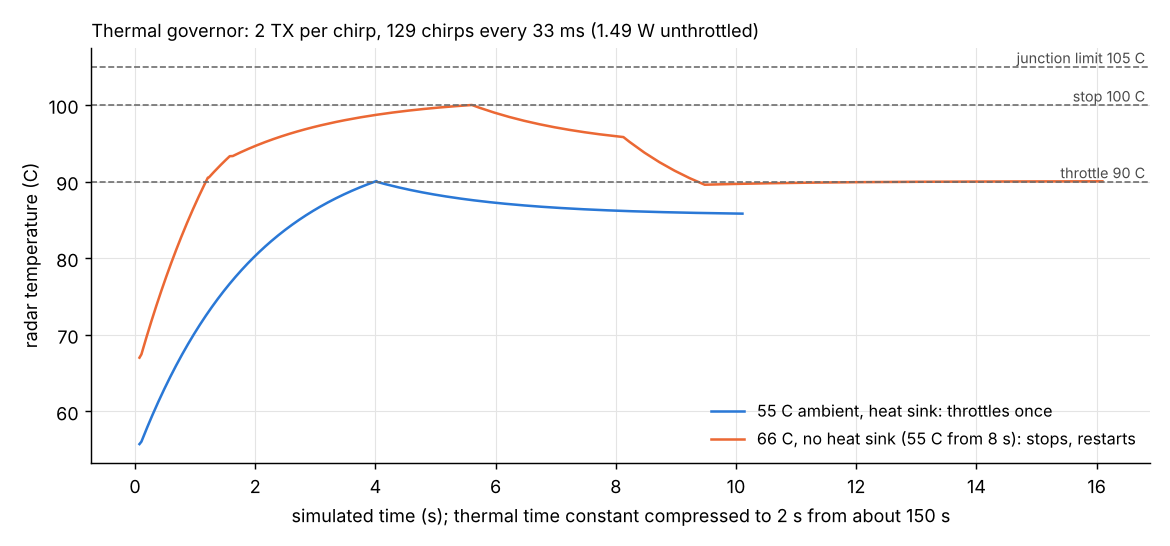
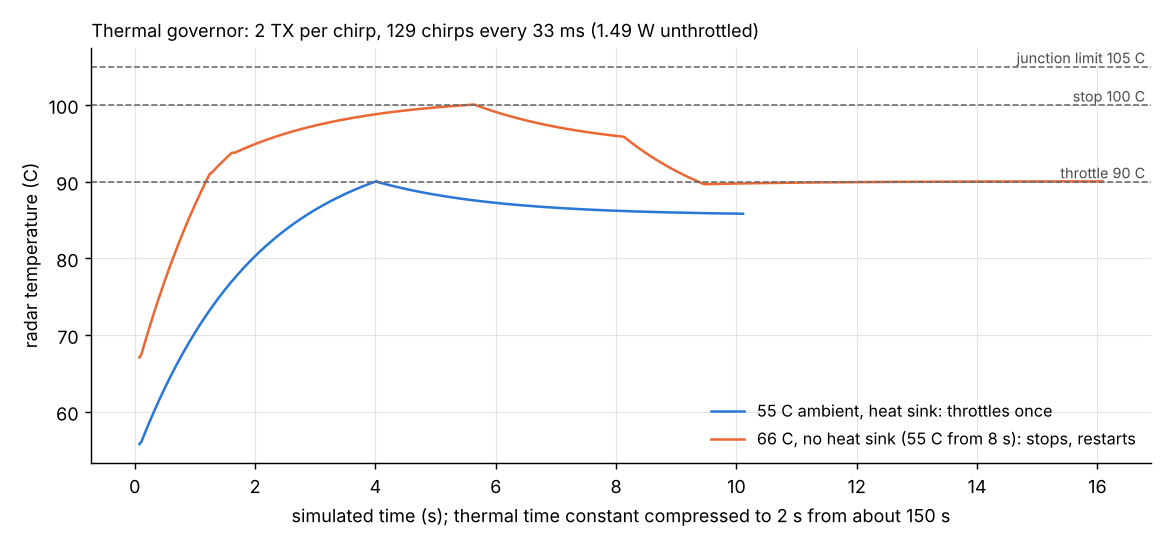
cosim: configurable temperature read interval, host switch for three TX
thermal.read_ms (100 ms to 5 s, default 1 s) sets how often the governor
reads the radar temperature and PMIC status, in place of every frame.
radar.tx3_enable (default 0) lets the host allow three TX in one chirp
in the normal build.

Claude-Session: https://claude.ai/code/session_01PL5B9BkKxS1pc3ZYLJLHsL

diff --git a/cosim/run_cosim.py b/cosim/run_cosim.py
@@ -163,8 +163,8 @@ def stress_3tx(c):
     for line in cfg:
         n.cli(line)
     out = n.cli("sensorStart", 0.3)
-    c.expect("Error -53" in out, "normal build refuses three TX at once (SAFE_MAX_TX_PER_CHIRP 2)")
-    b = _stream(c, "c_3tx_simultaneous_trim_1005", 1005, cfg, debug=True)
+    c.expect("Error -53" in out, "three TX at once refused by default (radar.tx3_enable 0)")
+    b = _stream(c, "c_3tx_simultaneous_trim_1005", 1005, ["cfg radar.tx3_enable 1"] + cfg)
     clean(c, b)
 
 
@@ -330,11 +330,13 @@ def usb_dropout(c):
 # ------------------------------------------------------------------------------ thermal and host limits
 # The board's thermal time constant is about 150 s (sim/bss.py). To keep runs short the thermal
 # scenarios compress it to 2 s and the firmware's hold time from its 20 s default to 300 ms, the
-# same ratio, so the governor sees the same dynamics 75 times faster.
+# same ratio, so the governor sees the same dynamics 75 times faster. The temperature read interval
+# goes to its minimum of 100 ms (7.5 s at real speed, coarser than the 1 s default).
 TAU_FAST = 2.0
 RTH_BARE = 37.4          # K/W, no heat sink (thermal_summary.txt: 46.7 K at 1.25 W)
 HEAVY = ["chirpReset", "chirpCfg 0 0 0 0 0 0 0 3", "chirpCfg 1 1 0 0 0 0 0 6", "chirpCfg 2 2 0 0 0 0 0 5",
-         "frameCfg 0 2 43 0 33", "cfg thermal.hold_ms 300"]   # 2 TX per chirp, 129 chirps every 33 ms: 1.49 W
+         "frameCfg 0 2 43 0 33", "cfg thermal.hold_ms 300", "cfg thermal.read_ms 100"]
+# 2 TX per chirp, 129 chirps every 33 ms: 1.49 W
 
 
 THERMAL_RUNS = {}
@@ -447,6 +449,8 @@ def host_limits(c):
                              ("cfg thermal.throttle_c 95", -51, "throttle temperature above 90 C"),
                              ("cfg thermal.hold_ms 50", -51, "hold time under 100 ms"),
                              ("cfg pmic.trim_mv 25", -51, "1V0 trim over 5 mV"),
+                             ("cfg thermal.read_ms 10000", -51, "temperature read interval over 5 s"),
+                             ("cfg radar.tx3_enable 2", -51, "tx3_enable other than 0 or 1"),
                              ("cfg thermal.throttle_c 86", -52, "throttle closer than 3 K to release (85 C)"),
                              ("cfg thermal.governor 0", -50, "unknown key (no switch to turn the governor off)")):
         c.expect(f"Error {code}" in b.cli(line), f"refused: {what}")
@@ -459,7 +463,7 @@ def host_limits(c):
     for line in ("cfg thermal.release_c 65", "cfg thermal.throttle_c 70", "cfg thermal.resume_c 71",
                  "cfg thermal.stop_c 74", "cfg thermal.hold_ms 300"):
         c.expect("Done" in b.cli(line), f"accepted: '{line}'")
-    for line in HEAVY[:-1]:
+    for line in HEAVY[:-2] + HEAVY[-1:]:
         b.cli(line)
     b.cli("sensorStart", 0.3)
     b.run(6.0)
@@ -519,7 +523,7 @@ SCENARIOS = [
     ("carrier_boot", "Carrier power (J400/J401) only, CLI over the carrier UART", carrier_boot),
     ("stream_default", "Default TDM-MIMO profile, 10 frames, no 1V0 trim", stream_default),
     ("stream_trim", "Same with the 1V0 trim to 1005 mV while running", stream_trim),
-    ("stress_3tx", "Three TX at once: refused by the normal build, run on the debug build for the replay", stress_3tx),
+    ("stress_3tx", "Three TX at once: refused by default, runs once the host enables it", stress_3tx),
     ("guards", "Firmware limits on PMIC writes", guards),
     ("bad_pmic_write", "Debug build: raw write puts Buck2 at 855 mV", bad_write),
     ("flash_uart", "UniFlash-style programming in SOP 101, then boot", flash_uart),

diff --git a/cosim/firmware/src/safety.c b/cosim/firmware/src/safety.c
@@ -1,12 +1,13 @@
 /*
  * Thermal governor and host configuration. See safety.h.
  *
- * Governor, evaluated on every frame (radar temperature read over the mailbox each frame):
+ * Governor, evaluated after each frame once thermal.read_ms has passed (radar temperature over the
+ * mailbox, LP87524 status over I2C):
  *   T >= stop                      -> stop the radar (TX off), state HOT
  *   T >= throttle, level < 2       -> level + 1: frame period x2, x4 (fewer chirps per second)
  *   T <= release,  level > 0       -> level - 1
  *   level changes at most once per hold time, so the heat sink can respond (tau ~150 s).
- * While HOT, every 250 ms: T <= resume and no PMIC thermal warning -> restart at level 2.
+ * While HOT, every read_ms: T <= resume and no PMIC thermal warning -> restart at level 2.
  * Three failed temperature reads in a row stop the radar (state FAULT): no reading, no RF.
  * The radar's own limit is 105 C junction (SWRS237C 7.3); the defaults keep 5 K of margin.
  */
@@ -21,7 +22,7 @@
 
 safety_t safety;
 
-int32_t cfg_throttle_c, cfg_release_c, cfg_stop_c, cfg_resume_c, cfg_hold_ms, cfg_trim_mv;
+int32_t cfg_throttle_c, cfg_release_c, cfg_stop_c, cfg_resume_c, cfg_hold_ms, cfg_read_ms, cfg_trim_mv, cfg_tx3;
 
 const cfg_item_t cfg_items[] = {
     {"thermal.throttle_c", "C", "radar temperature that halves the frame rate", &cfg_throttle_c,
@@ -34,6 +35,9 @@ const cfg_item_t cfg_items[] = {
      SAFE_STOP_C_MIN - 20, SAFE_STOP_C_MAX - SAFE_HYST_C_MIN, SAFE_STOP_C_MAX - 10},
     {"thermal.hold_ms", "ms", "minimum time between throttle steps", &cfg_hold_ms,
      SAFE_HOLD_MS_MIN, SAFE_HOLD_MS_MAX, SAFE_HOLD_MS_DEFAULT},
+    {"thermal.read_ms", "ms", "time between temperature (and PMIC status) reads", &cfg_read_ms,
+     SAFE_READ_MS_MIN, SAFE_READ_MS_MAX, SAFE_READ_MS_DEFAULT},
+    {"radar.tx3_enable", "", "allow three TX in one chirp (1V0 not yet verified for it)", &cfg_tx3, 0, 1, 0},
     {"pmic.trim_mv", "mV", "Buck2 (1V0) above 1000 mV while the radar runs", &cfg_trim_mv,
      0, (int32_t)(BUCK2_MV_MAX - BUCK2_MV_MIN), 0},
 };
@@ -108,6 +112,7 @@ static void go_hot(const char *why)
 static bool read_temp(void)
 {
     int32_t mc;
+    safety.t_read_ms = time_ms();
     if (radar_get_temp(&mc)) {
         if (++safety.temp_fails >= SAFE_TEMP_FAILS_MAX) {
             radar_stop();
@@ -164,16 +169,16 @@ void safety_on_radar_error(uint32_t code)
 
 void safety_on_frame(void)
 {
-    if (safety.state != SAFE_RUN)
+    uint32_t now = time_ms();
+    if (safety.state != SAFE_RUN || now - safety.t_read_ms < (uint32_t)cfg_read_ms)
         return;
     if (!read_temp())
         return;
     int32_t t = safety.temp_mc;
-    uint32_t now = time_ms();
     bool may_step = now - safety.t_change_ms >= (uint32_t)cfg_hold_ms;
     if (t >= cfg_stop_c * 1000) {
         go_hot("stop temperature reached, radar stopped");
-    } else if ((radar.frames_done % 10u) == 0u && pmic_hot()) {
+    } else if (pmic_hot()) {
         go_hot("PMIC thermal warning, radar stopped");
     } else if (t >= cfg_throttle_c * 1000 && safety.level < SAFE_MAX_LEVEL && may_step) {
         safety.throttles++;
@@ -189,7 +194,7 @@ void safety_poll(void)
 {
     static uint32_t last;
     uint32_t now = time_ms();
-    if (safety.state != SAFE_HOT || now - last < 250u)
+    if (safety.state != SAFE_HOT || now - last < (uint32_t)cfg_read_ms)
         return;
     last = now;
     if (!read_temp() || safety.state != SAFE_HOT)

diff --git a/cosim/firmware/src/safety.h b/cosim/firmware/src/safety.h
@@ -24,6 +24,7 @@ typedef struct {
     uint32_t level;          /* 0: host frame period, 1: x2, 2: x4 */
     int32_t temp_mc;         /* last radar temperature */
     uint32_t t_change_ms;    /* last level or state change */
+    uint32_t t_read_ms;      /* last temperature read */
     uint32_t temp_fails;     /* consecutive failed reads */
     uint32_t throttles, stops, restarts;
     bool pmic_hot;           /* LP87524 TDIE_WARN seen */
@@ -47,7 +48,7 @@ const cfg_item_t *cfg_find(const char *key);
 void cfg_defaults(void);
 
 /* thermal settings, in degC and ms; read by the governor */
-extern int32_t cfg_throttle_c, cfg_release_c, cfg_stop_c, cfg_resume_c, cfg_hold_ms, cfg_trim_mv;
+extern int32_t cfg_throttle_c, cfg_release_c, cfg_stop_c, cfg_resume_c, cfg_hold_ms, cfg_read_ms, cfg_trim_mv, cfg_tx3;
 
 /* governor ------------------------------------------------------------------------------- */
 int safety_start(void);   /* host wants the radar running */

diff --git a/cosim/firmware/src/board.h b/cosim/firmware/src/board.h
@@ -59,14 +59,13 @@ struct pinmux_entry {
 #define SAFE_HOLD_MS_DEFAULT 20000 /* about tau/8 of the board with the heat sink */
 #define SAFE_MAX_LEVEL 2u          /* deepest throttle: frame period x4 */
 #define SAFE_TEMP_FAILS_MAX 3u
+#define SAFE_READ_MS_MIN 100
+#define SAFE_READ_MS_MAX 5000      /* worst case the radar heats 0.2 K/s: at most 1 K late */
+#define SAFE_READ_MS_DEFAULT 1000
 /* RF limits checked at sensorStart. Three TX at once does not fit the 1V0 window in the replay
- * (cosim/results/replay_summary.txt) until it is measured on hardware, so only the debug build
- * allows it. */
-#ifdef FW_DEBUG_PMIC
-#define SAFE_MAX_TX_PER_CHIRP 3u
-#else
+ * (cosim/results/replay_summary.txt) until it is measured on hardware, so it is off unless the
+ * host enables it (cfg radar.tx3_enable 1). */
 #define SAFE_MAX_TX_PER_CHIRP 2u
-#endif
 #define SAFE_MAX_DUTY_PCT 50u      /* chirping time per frame period */
 #define SAFE_MIN_PERIOD_US 10000u
 

diff --git a/cosim/firmware/src/main.c b/cosim/firmware/src/main.c
@@ -272,7 +272,7 @@ static void handle_event(uint32_t *ev)
             pmic_load_ma(3, &telemetry_buck3_ma);
         }
         send_frame_packet(ev);
-        safety_on_frame(); /* temperature every frame, PMIC status every 10th; may throttle or stop */
+        safety_on_frame(); /* every thermal.read_ms: temperature and PMIC status; may throttle or stop */
         break;
     case BSS_EV_ERROR:
         radar.errors++;

diff --git a/cosim/firmware/src/radar.c b/cosim/firmware/src/radar.c
@@ -166,7 +166,7 @@ int radar_start(void)
         uint32_t m = radar_cfg.chirp_tx_mask[i] & radar_cfg.tx_mask, n = 0;
         for (; m; m &= m - 1u)
             n++;
-        if (n > SAFE_MAX_TX_PER_CHIRP)
+        if (n > (cfg_tx3 ? 3u : SAFE_MAX_TX_PER_CHIRP))
             return SAFE_ERR_TX;
         nchirps++;
     }

diff --git a/cosim/README.md b/cosim/README.md
@@ -62,7 +62,7 @@ The 921600 Bd data rate is marginal: the SCI has no fractional divider and makes
 
 The firmware is safe by default: the limits below are compiled in (`SAFE_*` in `firmware/src/board.h`). A host can make them stricter but never looser. No command switches the governor off.
 
-**Thermal governor.** The firmware reads the radar's temperature sensor on every frame and the PMIC status on every 10th frame.
+**Thermal governor.** The firmware reads the radar's temperature sensor and the PMIC status once per `thermal.read_ms` (default 1 s), after a frame ends. Each read is one mailbox message and a few I2C bytes between frames, so the chirps are not affected. The board heats with a time constant of minutes, so 1 s is ample.
 
 | Condition | Action |
 |---|---|
@@ -83,16 +83,18 @@ The radar's limit is 105 °C junction (SWRS237C 7.3), so the defaults keep 5 K o
 | `thermal.stop_c` | 70–100 °C | 100 |
 | `thermal.resume_c` | 50–97 °C | 90 |
 | `thermal.hold_ms` | 100 ms–600 s | 20 s |
+| `thermal.read_ms` | 100 ms–5 s | 1 s |
+| `radar.tx3_enable` | 0–1 | 0 |
 | `pmic.trim_mv` | 0–5 mV above 1000 mV | 0 |
 
 Radar settings still use the TI-style commands (`profileCfg`, `chirpCfg`, `frameCfg`). `sensorStart` checks them against these limits:
-- at most 2 TX per chirp (`-53`); three at once only in `fw_debug.elf`, until the 1V0 replay is confirmed on hardware
+- at most 2 TX per chirp (`-53`), unless the host sets `radar.tx3_enable 1`. It is off by default because three TX in one chirp did not fit the 1V0 window in the replay. TDM-MIMO, with the three TX one after another, is not affected
 - chirps take at most 50 % of the frame period (`-54`)
 - frame period at least 10 ms (`-55`)
 
-**Simulation** (`results/thermal_governor.png`). These scenarios compress the thermal time constant to 2 s and the hold time to 300 ms, in the same ratio, so a run takes seconds instead of minutes. The load is a heavy profile of 2 TX per chirp, 129 chirps every 33 ms, which is 1.49 W unthrottled.
+**Simulation** (`results/thermal_governor.png`). These scenarios compress the thermal time constant to 2 s and the hold time to 300 ms, in the same ratio, so a run takes seconds instead of minutes. The read interval is 100 ms, the minimum, which is coarser than the 1 s default would be at that speed. The load is a heavy profile of 2 TX per chirp, 129 chirps every 33 ms, which is 1.49 W unthrottled.
 - **55 °C ambient with the heat sink:** unthrottled, the radar would settle at 96 °C. The governor throttles once and it settles at 86 °C while data keeps streaming.
-- **66 °C ambient without the heat sink:** it throttles twice and stops at 100.0 °C. It stays stopped while idle heat alone keeps it at 94 °C. When the ambient drops to 55 °C it restarts at ×4 and holds at 90 °C.
+- **66 °C ambient without the heat sink:** it throttles twice and stops at 100.0 °C. It stays stopped while idle heat alone keeps it at 94 °C. When the ambient drops to 55 °C it restarts at ×4 and stays under 96 °C.
 
 Other scenarios cover a host that tightens the limits (throttle at 70 °C, stop at 74 °C), the PMIC thermal warning, failing temperature reads, a start while hot, and every out-of-bounds setting.
 

diff --git a/CHANGELOG.md b/CHANGELOG.md
@@ -7,7 +7,7 @@ All notable changes are documented here, following [Keep a Changelog](https://ke
 ### Added
 
 - `cosim/`: bare-metal test firmware for the radar's R4F, run on a model of the board (power tree, supervisor, PMIC over I²C, boot ROM and flash, USB bridge, carrier). Includes the co-simulation scenarios and an ngspice replay of the firmware's chirp load on 1V0 and 1V8. The replay shows a 1025 mV Buck2 trim takes 1V0 over 1.05 V at frame end, so the firmware limits the trim to 1000-1005 mV; raw PMIC writes are in the debug build only.
-- `cosim/` firmware safety layer: a thermal governor and host settings. The governor reads the radar temperature every frame and halves the frame rate from 90 °C. It stops the radar at 100 °C or on a PMIC thermal warning, and restarts it once cool. Host settings (`cfg`) have compiled-in bounds the host can tighten but not loosen. `sensorStart` checks TX per chirp, duty and frame period. Six new co-simulation scenarios cover it.
+- `cosim/` firmware safety layer: a thermal governor and host settings. The governor reads the radar temperature once per second by default (`thermal.read_ms`) and halves the frame rate from 90 °C. It stops the radar at 100 °C or on a PMIC thermal warning, and restarts it once cool. Host settings (`cfg`) have compiled-in bounds the host can tighten but not loosen. `sensorStart` checks TX per chirp (three at once only with `radar.tx3_enable`), duty and frame period. Six new co-simulation scenarios cover it.
 
 ## [1.1] - 2026-11-15
 
